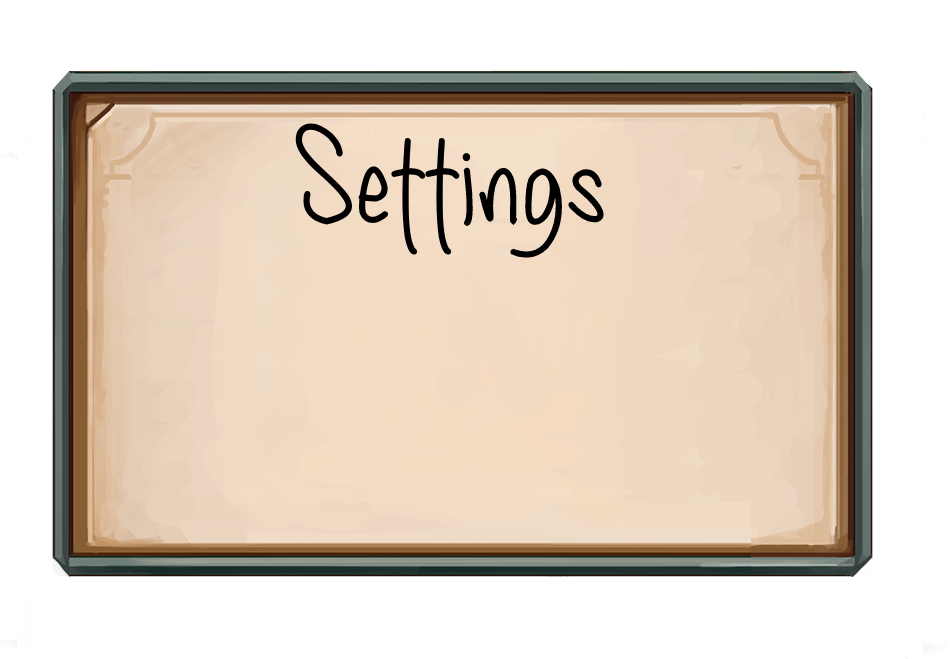
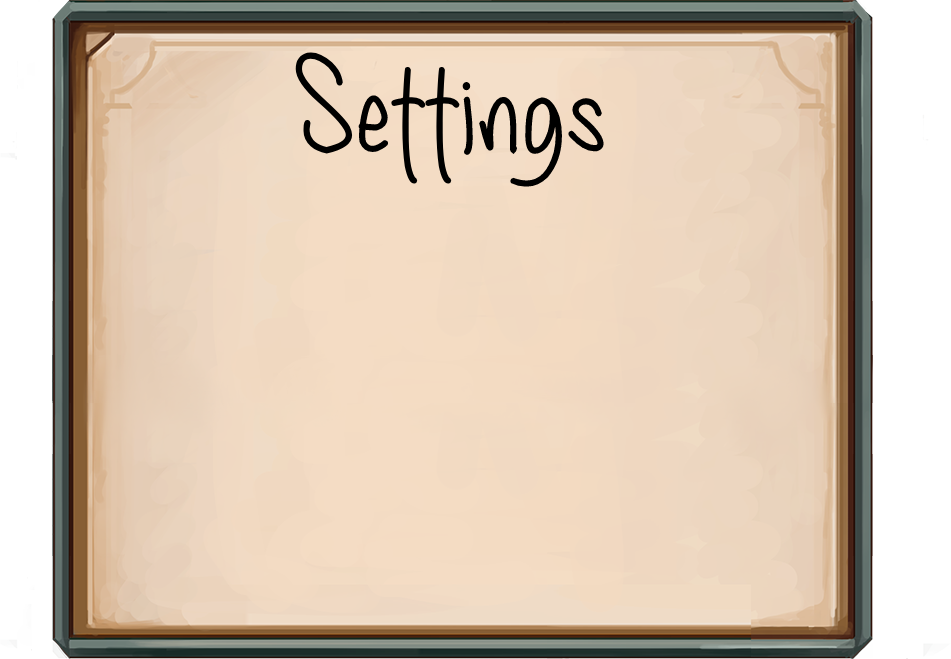
[+] added fullscreen & music option

diff --git a/Src/Entity/GameScript.cpp b/Src/Entity/GameScript.cpp
@@ -52,6 +52,8 @@ namespace bomberman {
                 break;
             case 5:
                 WinningScript();
+            case 6:
+                Settings();
                 break;
             default:
                 break;
@@ -345,5 +347,25 @@ namespace bomberman {
             script->LoadPlayers(true);
             scene->SetActiveButton(BUTTON_MENU, true, true);
         }
+    }
+
+    void GameScript::Settings() {
+        auto *scene = _game->GetSceneManager().GetScene(3);
+        static bool switch_fs = IsWindowFullscreen();
+        if (_game->GetSceneManager().GetScene(3)->GetButton(0)->GetState()) {
+            _game->GetSceneManager().GetScene(2)->GetButton(0)->SetState(false);
+            _game->GetSceneManager().GetScene(3)->GetButton(0)->SetState(false);
+        }
+        if (!scene->GetButton(2)->GetState())
+            SetMasterVolume(0);
+        else
+            SetMasterVolume(1);
+        if (switch_fs != scene->GetButton(1)->GetState()) {
+            ToggleFullscreen();
+            if (!IsWindowFullscreen()) {
+                SetWindowSize(1920, 1050);
+            }
+        }
+        switch_fs = scene->GetButton(1)->GetState();
     }
 }

diff --git a/Src/Scene/SceneManager.cpp b/Src/Scene/SceneManager.cpp
@@ -162,6 +162,14 @@ namespace bomberman {
         auto *settings = new Scene;
         settings->AddEntity(new GameImage("../Assets/UI/text_box.png", 500, 200));
         settings->AddEntity(new GameButton(1220, 770, "../Assets/UI/close_button90.png"));
+        settings->AddEntity(new GameText("../Assets/Font/Beauty_Forest.free.ttf", "Fullscreen", 825, 440, 90, BLACK));
+        settings->AddEntity(new GameText("../Assets/Font/Beauty_Forest.free.ttf", "    Music", 825, 590, 90, BLACK));
+        settings->AddEntity(new GameButton(1050, 450, "../Assets/UI/checkbox_checked.png", "../Assets/UI/checkbox.png"));
+        settings->AddEntity(new GameButton(1050, 600, "../Assets/UI/checkbox_checked.png", "../Assets/UI/checkbox.png"));
+        settings->AddEntity(new GameScript(gameRef, 6));
+        if (IsWindowFullscreen())
+            settings->GetButton(1)->SetState(true);
+        settings->GetButton(2)->SetState(true);
         scenes.push_back(settings);
     }
 

diff --git a/Src/Game/Game.cpp b/Src/Game/Game.cpp
@@ -22,6 +22,7 @@ namespace bomberman {
 
     void Game::createWindow() {
         InitWindow(width, height, "Bomberman");
+        ToggleFullscreen();
         rlDisableBackfaceCulling();
         SetConfigFlags(FLAG_MSAA_4X_HINT);
         InitAudioDevice();
@@ -49,10 +50,7 @@ namespace bomberman {
             scenes.GetScene(2)->Draw2DAssets();
             if (scenes.GetScene(2)->GetButton(0)->GetState()) {
                 scenes.GetScene(3)->Draw2DAssets();
-                if (scenes.GetScene(3)->GetButton(0)->GetState()) {
-                    scenes.GetScene(2)->GetButton(0)->SetState(false);
-                    scenes.GetScene(3)->GetButton(0)->SetState(false);
-                }
+                scenes.GetScene(3)->GetScript(0)->Update();
             }
             if (scenes.GetScene(0)->GetButton(0)->GetState()) {
                 scenes.GetScene(4)->Draw2DAssets();

diff --git a/Includes/GameScript.hpp b/Includes/GameScript.hpp
@@ -38,6 +38,7 @@ namespace bomberman {
             void UpdateBomb();
             void LoadPlayers(bool populated = false);
             void ActivateSelection();
+            void Settings();
             bool CheckGamepadsButtonPressed(int nb);
             void WinningScript();
     };
